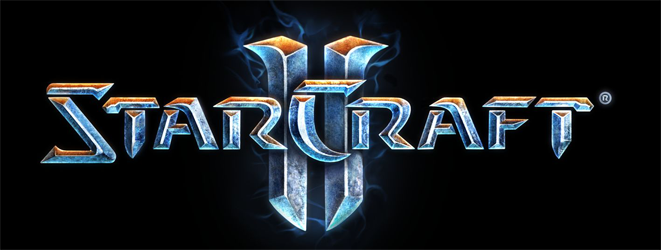
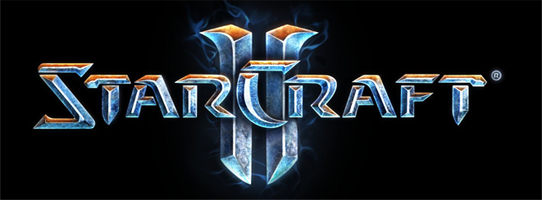
Modified header size

Changed region(s): [[0.059, 0.0, 0.9446, 0.93], [0.5314, 0.06, 0.5609, 0.09]]

diff --git a/public/stylesheets/style.css b/public/stylesheets/style.css
@@ -54,8 +54,8 @@ h1,h2,h3 {padding-top: 6px; color: #259086; margin-bottom: 4px;}
 	margin: 0px auto;
 	text-align: center;
 	background: #000 url('/images/header.png') no-repeat;
-	width: 661px;
-	height: 250px;
+	width: 542px;
+	height: 200px;
 	padding: 0px;
 	margin: 0px auto 20px auto;
 }
